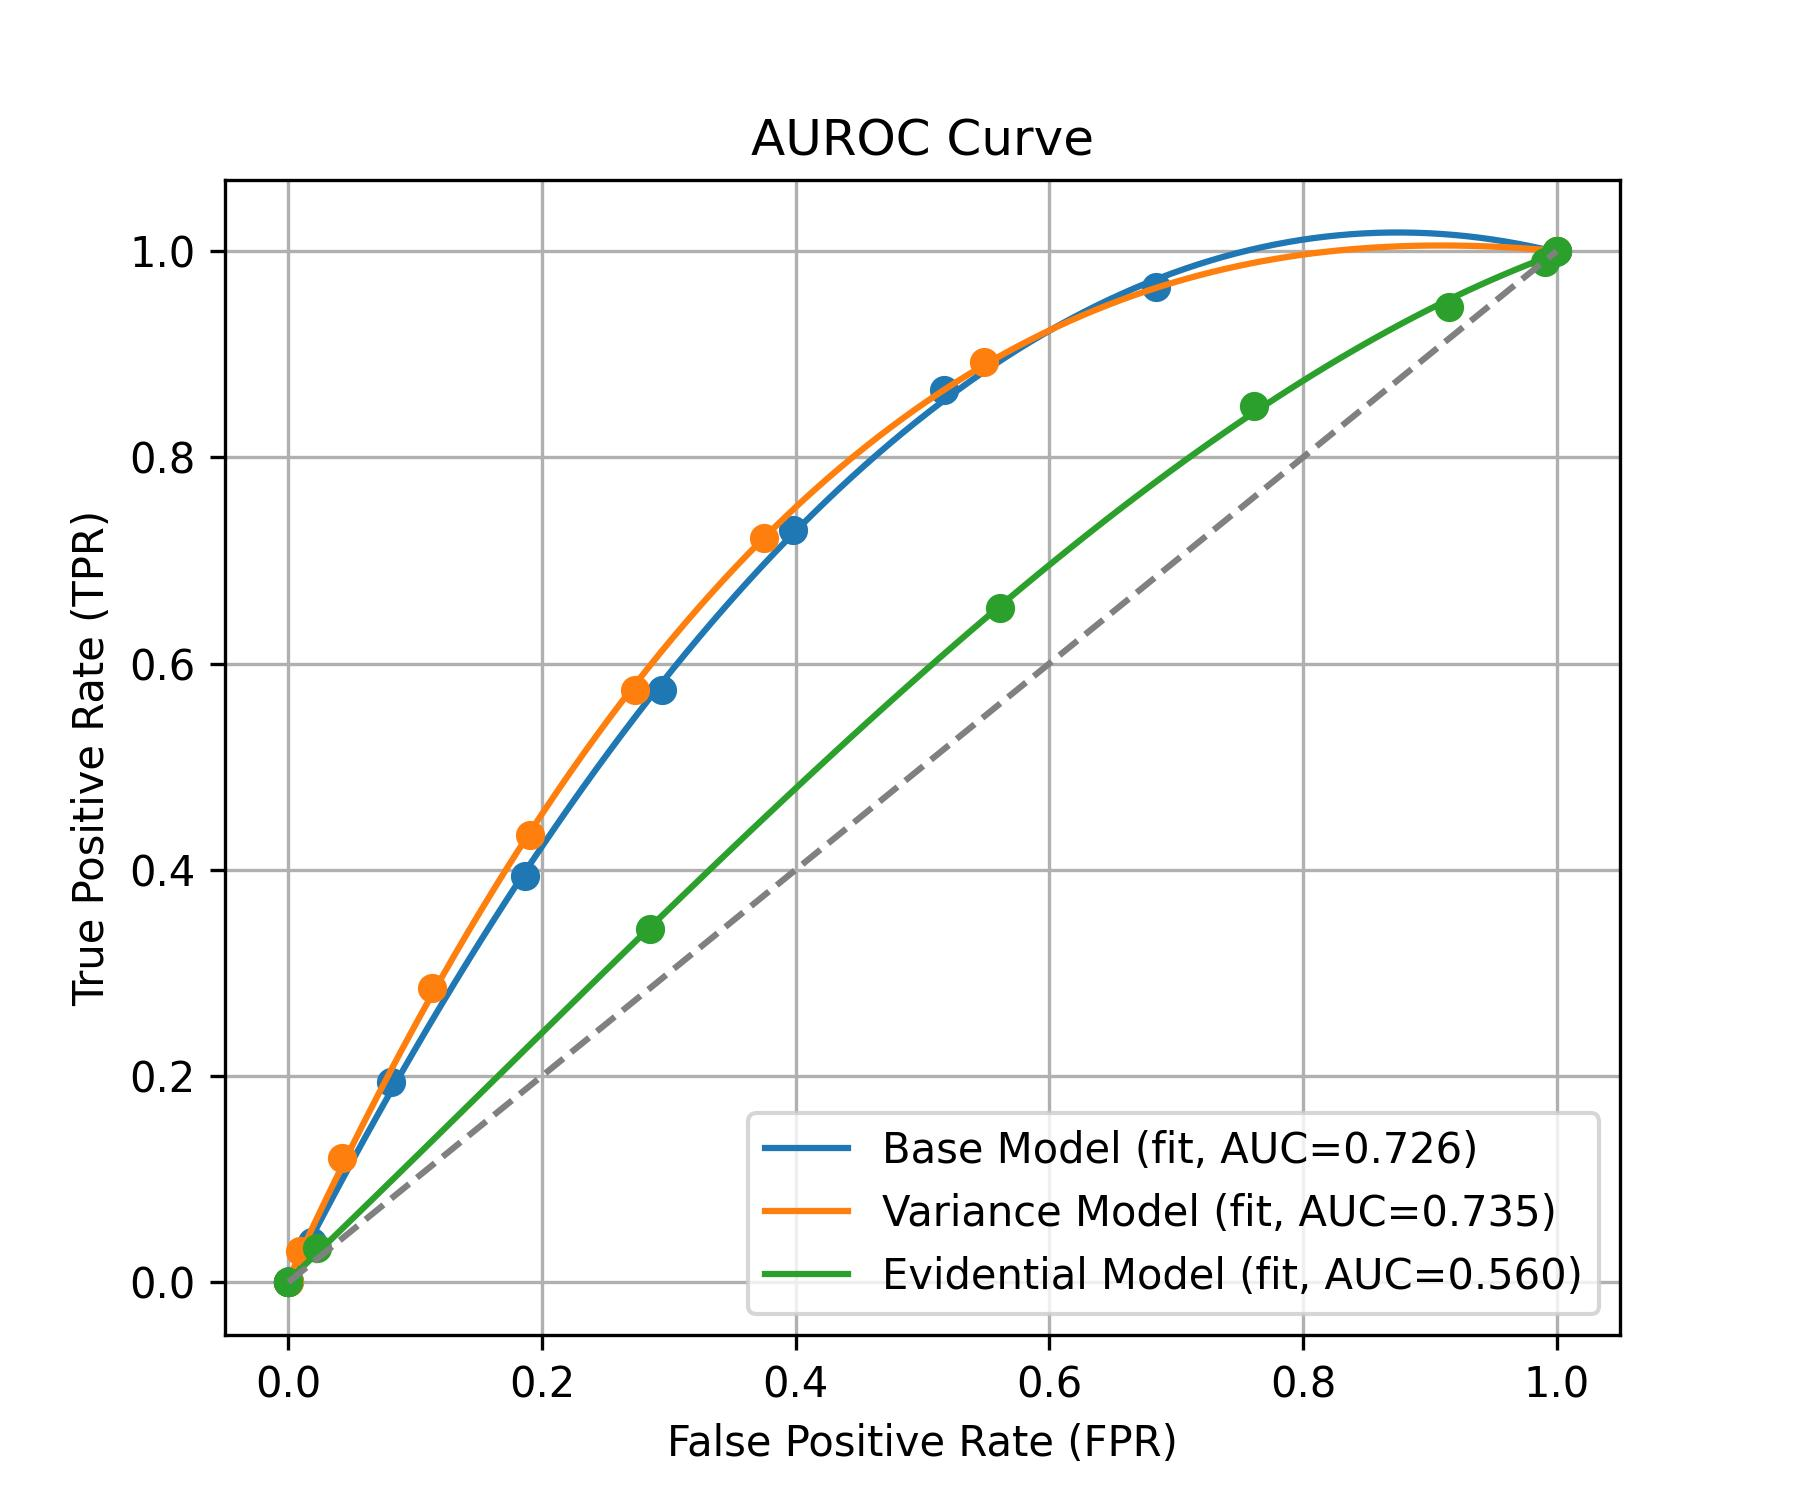
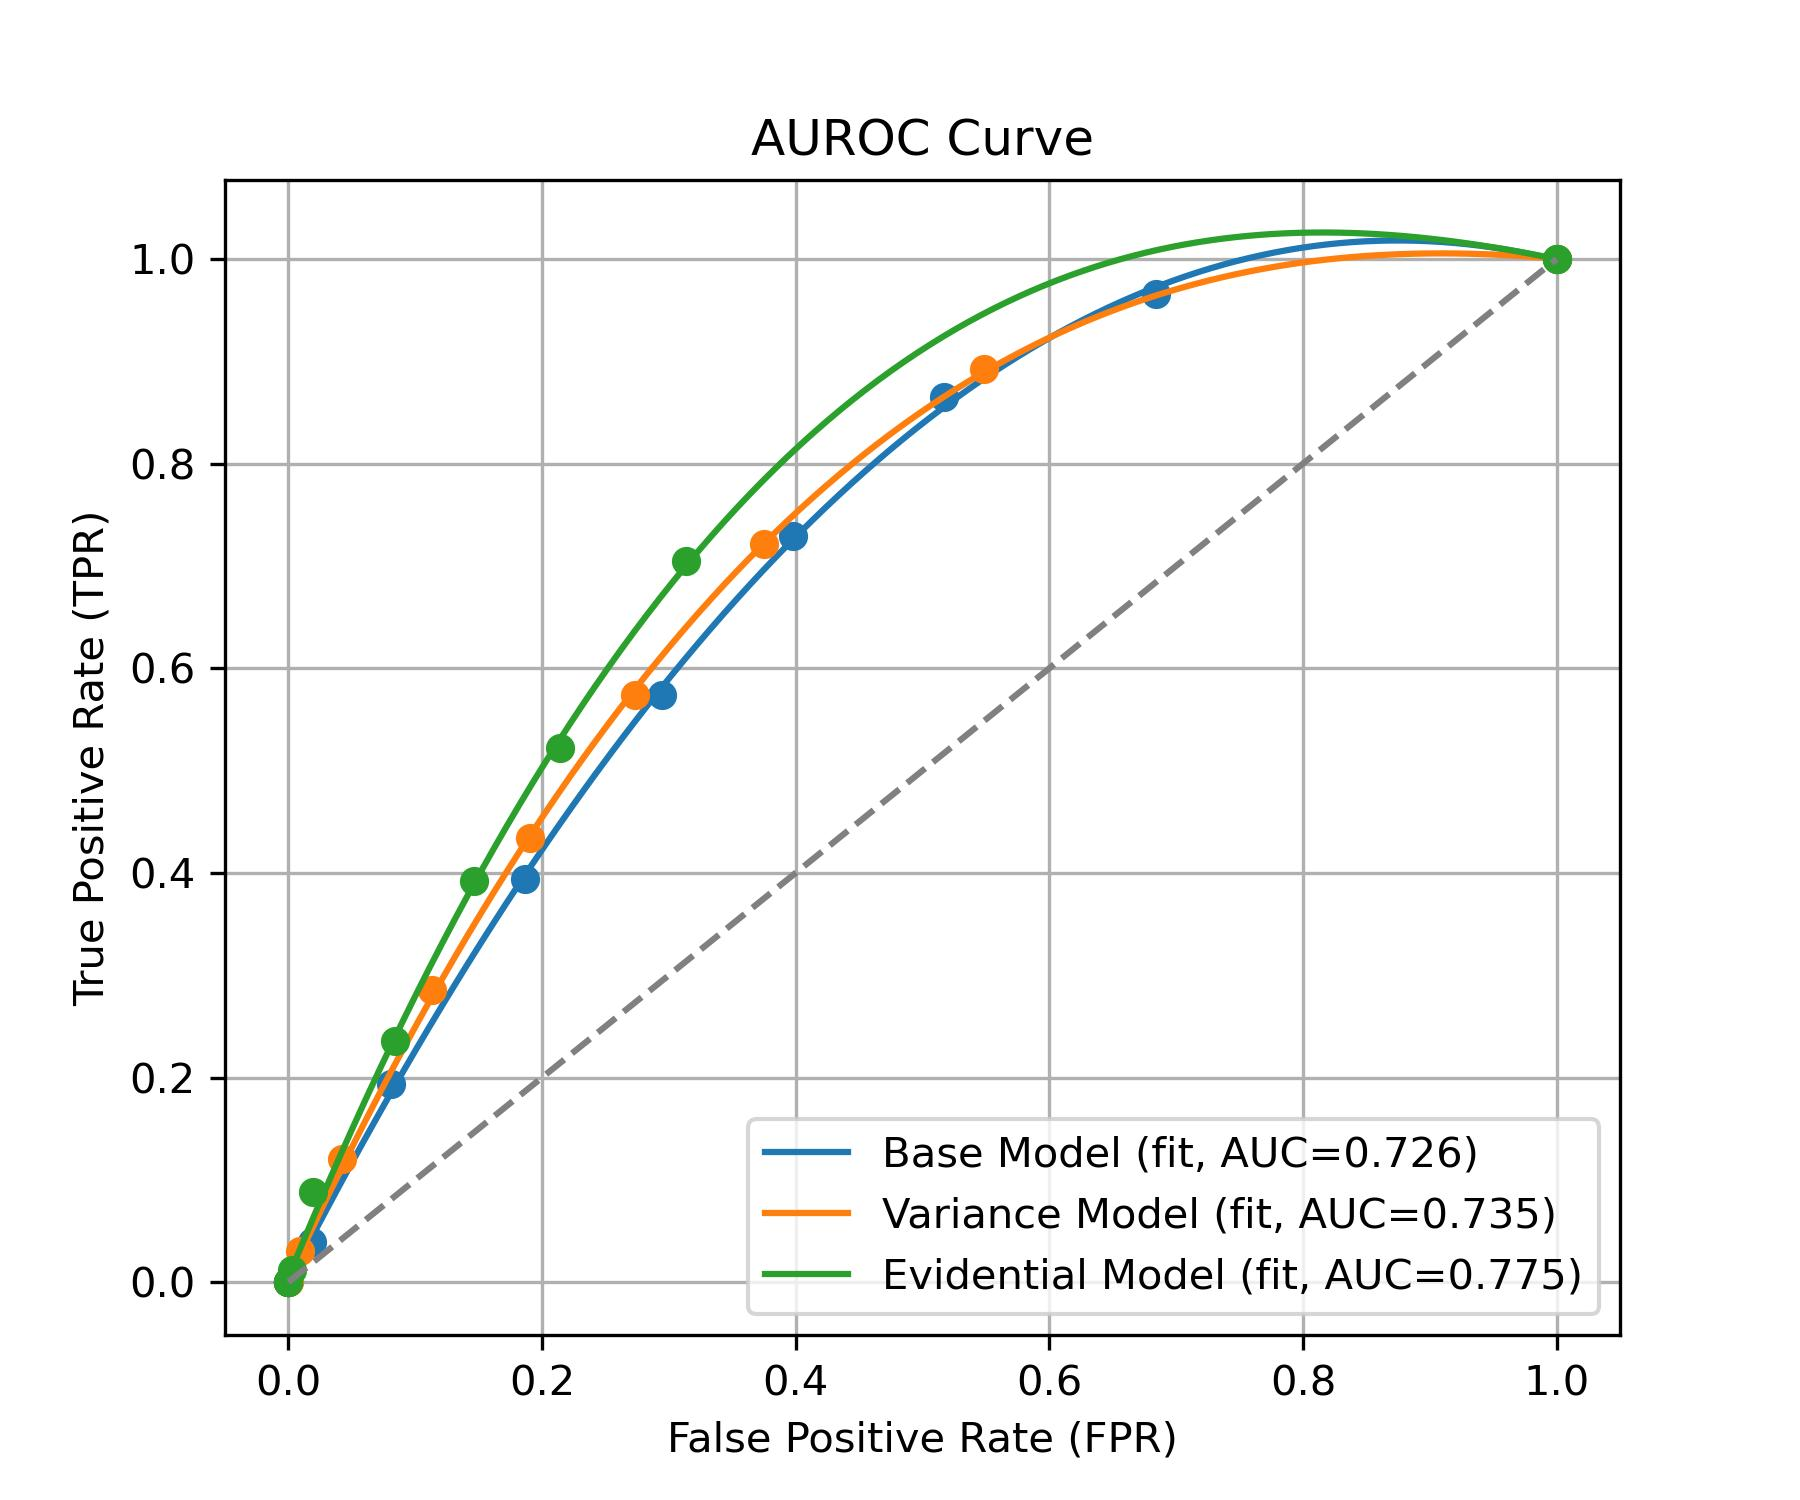
remove evi oscr

diff --git a/auroc-oscr/auroc_evi.py b/auroc-oscr/auroc_evi.py
@@ -1,0 +1,38 @@
+import numpy as np
+import torch
+import torchmetrics
+import matplotlib.pyplot as plt
+from sklearn.metrics import roc_curve
+
+def main():
+    # Load the unknown scores and binary labels generated during evaluation
+    # (Binary labels: 1 for unknown samples, 0 for known samples)
+    unknown_scores = np.load(f"unknown_scores.npy")
+    unknown_labels = np.load(f"unknown_labels.npy")
+    
+    # Convert to torch tensors (torchmetrics works with torch tensors)
+    scores_tensor = torch.tensor(unknown_scores)
+    labels_tensor = torch.tensor(unknown_labels).long()
+    
+    # Compute the AUROC score using torchmetrics
+    auroc_metric = torchmetrics.AUROC(task="binary")
+    auroc_score = auroc_metric(scores_tensor, labels_tensor)
+    print("AUROC Score:", auroc_score.item())
+    
+    # Compute the ROC curve (FPR vs TPR) using sklearn; note that AUC is ranking-based
+    fpr, tpr, roc_thresholds = roc_curve(unknown_labels, unknown_scores, pos_label=1)
+    
+    # Plot ROC curve (FPR vs. TPR) and save as "auroc_evi.jpeg"
+    plt.figure()
+    plt.plot(fpr, tpr, label=f"AUC = {auroc_score.item():.4f}")
+    plt.xlabel("False Positive Rate")
+    plt.ylabel("True Positive Rate")
+    plt.title("ROC Curve")
+    plt.legend(loc="lower right")
+    plt.grid(True)
+    plt.savefig("auroc_evi.jpeg")
+    plt.close()
+    
+
+if __name__ == '__main__':
+    main()

diff --git a/auroc-oscr/auroc-oscr.py b/auroc-oscr/auroc-oscr.py
@@ -35,7 +35,7 @@ def parse_txt(file_path):
             data[current_threshold]["FP"] += fp
 
         # Extract Mean Accuracy
-        match = re.search(r"Mean Metrics for Threshold [0-9.]+: Accuracy: ([0-9.]+)%", line)
+        match = re.search(r"Metrics for Threshold [0-9.]+: Accuracy: ([0-9.]+)%", line)
         if match and current_threshold is not None:
             data[current_threshold]["Accuracy"] = float(match.group(1)) / 100  # convert to decimal
 
@@ -71,7 +71,7 @@ def compute_metrics(data):
         rejection_list.append(rejection)
 
     print("-" * 60)
-    return (np.array(thresholds), np.array(jjtpr_list), np.array(fpr_list),
+    return (np.array(thresholds), np.array(tpr_list), np.array(fpr_list),
             np.array(accuracy_list), np.array(rejection_list))
 
 def calculate_bestfit_auc(x_vals, y_vals, degree=3, force_endpoints=False):
@@ -129,7 +129,7 @@ def plot_combined_curves(models, x_arrays, y_arrays, output_path, title, xlabel,
 
 if __name__ == "__main__":
     # The following file names are assumed. Adjust if needed.
-    file_paths = ["baseline_2.txt", "variance_2.txt", "evidential_2.txt"]
+    file_paths = ["baseline_2.txt", "variance_2.txt", "evidential.txt"]
     model_names = ["Base Model", "Variance Model", "Evidential Model", ]
     
     all_tprs, all_fprs, all_accuracies, all_rejections = [], [], [], []
